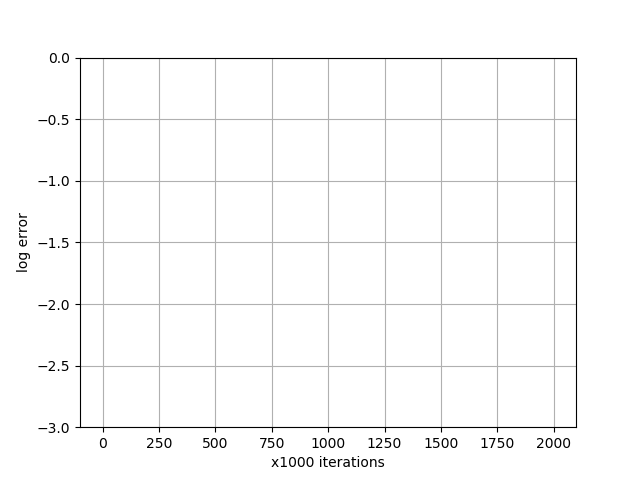
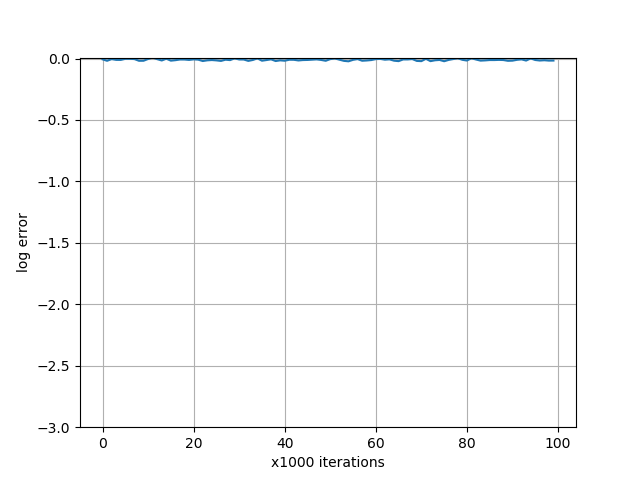
made the error function actually calculate

diff --git a/nn_framework/framework.py b/nn_framework/framework.py
@@ -5,8 +5,9 @@ plt.switch_backend("agg")
 
 
 class ANN(object):
-    def __init__(self, model, normalized_pixel_range=[-.5, .5], input_pixel_range=[np.nan, np.nan]):
+    def __init__(self, model, error_function, normalized_pixel_range=[-.5, .5], input_pixel_range=[np.nan, np.nan]):
         self.layers = model
+        self.error_function = error_function
         self.error_history = []
         self.n_iter_train = int(1e6)
         self.n_iter_evaluate = int(1e6)
@@ -31,7 +32,10 @@ class ANN(object):
             x = next(training_set()).ravel()
             x = self.normalize(x)
             y = self.forward_prop(x)
-            self.error_history.append(1)
+            error = self.error_function.calc(x, y)
+            rms_error = (np.mean(error**2))**.5
+            self.error_history.append(rms_error)
+            de_dy = self.error_function.calc_d(x, y)
 
             if (i+1) % self.viz_interval == 0:
                 self.report()
@@ -41,7 +45,9 @@ class ANN(object):
             x = next(evaluation_set()).ravel()
             x = self.normalize(x)
             y = self.forward_prop(x)
-            self.error_history.append(1)
+            error = self.error_function.calc(x, y)
+            rms_error = np.sqrt(np.mean(error))
+            self.error_history.append(rms_error)
 
             if (i+1) % self.viz_interval == 0:
                 self.report()

diff --git a/run_framework.py b/run_framework.py
@@ -2,6 +2,7 @@ import data_loader_two_by_two as dat
 import nn_framework.framework as framework
 import nn_framework.layer as layer
 import nn_framework.activation as activation
+import nn_framework.error_fun as error_fun
 
 input_pixel_range = [0, 1]  # range of values of input pixels
 normalized_pixel_range = [-.5, .5]  # tuning range for where to normalize input
@@ -24,6 +25,7 @@ for i_layer in range(len(n_nodes)-1):
 
 autoencoder = framework.ANN(
     model=model,
+    error_function=error_fun.sqr,
     normalized_pixel_range=normalized_pixel_range,
     input_pixel_range=input_pixel_range
 )

diff --git a/nn_framework/error_fun.py b/nn_framework/error_fun.py
@@ -1,0 +1,11 @@
+import numpy as np
+
+
+class sqr(object):
+    @staticmethod
+    def calc(x, y):
+        return (y-x)**2
+
+    @staticmethod
+    def calc_d(x, y):
+        return 2 * (y-x)
